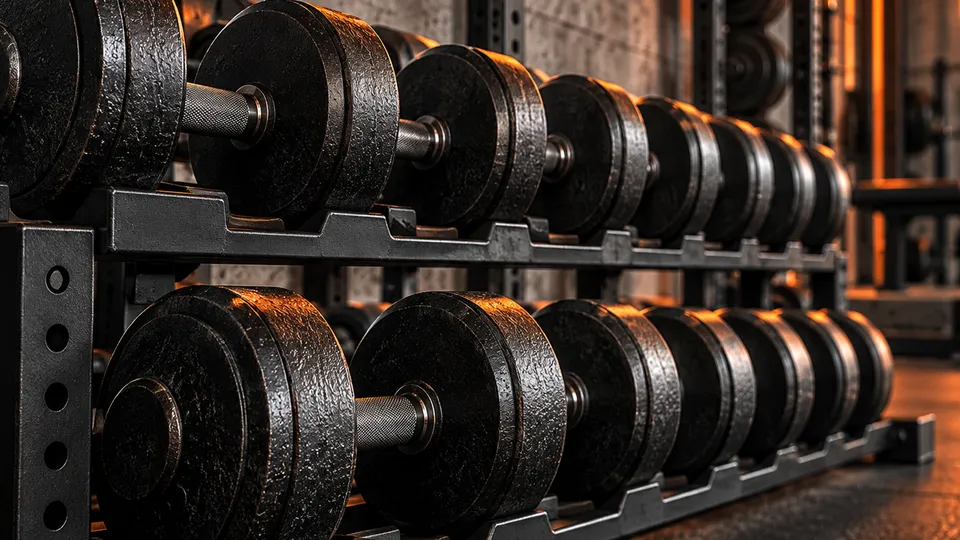
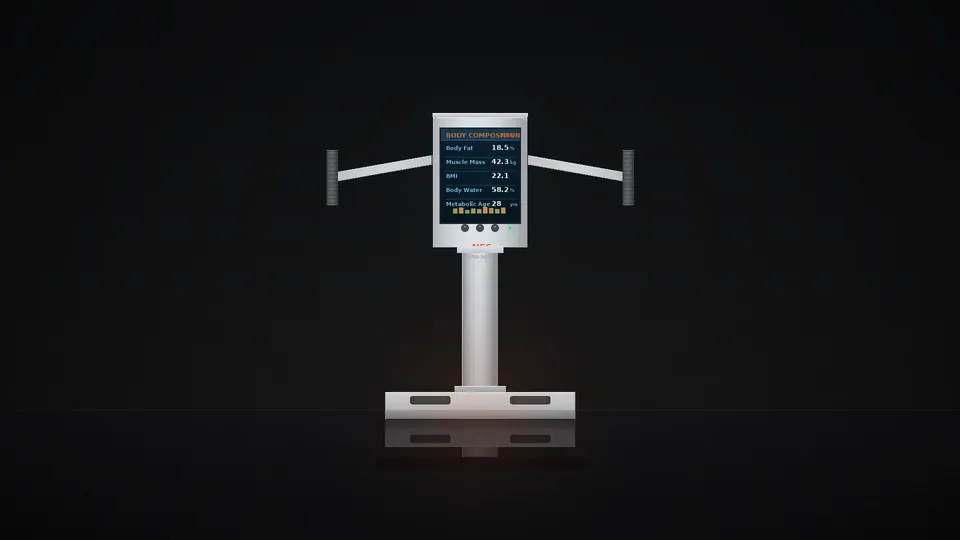
Replace BCA image with body composition machine, fix PT card grid
BCA image: Replace dumbbell photo with a proper body composition
analyzer machine showing display screen, handle bars, standing
platform, and NFS PRO-500 branding. Dark background with orange
ambient lighting matches the site theme.

PT packages: Fix CSS specificity so the general first-child
big-price rule does not bleed into PT panels. All PT cards now
display as equal-sized cards in a grid with price centered and
session details below.

All 22 regression tests pass.

Generated with [Devin](https://devin.ai)

diff --git a/customer-website/web/css/new-gym-theme.css b/customer-website/web/css/new-gym-theme.css
@@ -704,33 +704,7 @@ body::before {
   color: #ffffff;
 }
 
-/* PT packages: display as a grid of cards, not table rows */
-.owner-demo-panel .owner-offer-lines {
-  display: grid;
-  grid-template-columns: repeat(auto-fill, minmax(180px, 1fr));
-  gap: 12px;
-}
-
-.owner-demo-panel .owner-offer-line {
-  flex-direction: column;
-  align-items: center;
-  text-align: center;
-  padding: 20px 16px;
-  gap: 10px;
-}
-
-.owner-demo-panel .owner-offer-line span {
-  order: 2;
-  font-size: 0.78rem;
-  color: var(--muted);
-  line-height: 1.3;
-}
-
-.owner-demo-panel .owner-offer-line strong {
-  order: 1;
-  font-size: 1.4rem;
-  font-family: var(--font-display);
-}
+/* Owner demo panel — base heading */
 
 /* Owner-offer membership cards — card layout */
 .owner-offer-card {
@@ -826,6 +800,57 @@ body::before {
 
 .owner-offer-line:not(:first-child) small {
   display: none;
+}
+
+/* ---- PT packages: override back to equal card grid (not big-first) ---- */
+.owner-demo-panel .owner-offer-lines {
+  display: grid;
+  grid-template-columns: repeat(auto-fill, minmax(180px, 1fr));
+  gap: 12px;
+  margin: 0 0 22px;
+}
+
+.owner-demo-panel .owner-offer-line,
+.owner-demo-panel .owner-offer-line:first-child,
+.owner-demo-panel .owner-offer-line:not(:first-child) {
+  display: flex;
+  flex-direction: column;
+  align-items: center;
+  text-align: center;
+  padding: 22px 16px;
+  margin-bottom: 0;
+  border: 1px solid var(--line);
+  border-radius: var(--radius);
+  background: var(--panel);
+  gap: 8px;
+}
+
+.owner-demo-panel .owner-offer-line:hover {
+  border-color: rgba(232, 97, 45, 0.4);
+}
+
+.owner-demo-panel .owner-offer-line strong,
+.owner-demo-panel .owner-offer-line:first-child strong,
+.owner-demo-panel .owner-offer-line:not(:first-child) strong {
+  order: 1;
+  font-size: 1.5rem;
+  font-family: var(--font-display);
+  font-weight: 800;
+  color: #ffffff;
+  letter-spacing: 0;
+  white-space: nowrap;
+  line-height: 1.2;
+}
+
+.owner-demo-panel .owner-offer-line span,
+.owner-demo-panel .owner-offer-line:first-child span,
+.owner-demo-panel .owner-offer-line:not(:first-child) span {
+  order: 2;
+  font-size: 0.75rem;
+  color: var(--muted);
+  font-weight: 500;
+  line-height: 1.4;
+  margin-top: 0;
 }
 
 .owner-benefit-list {
